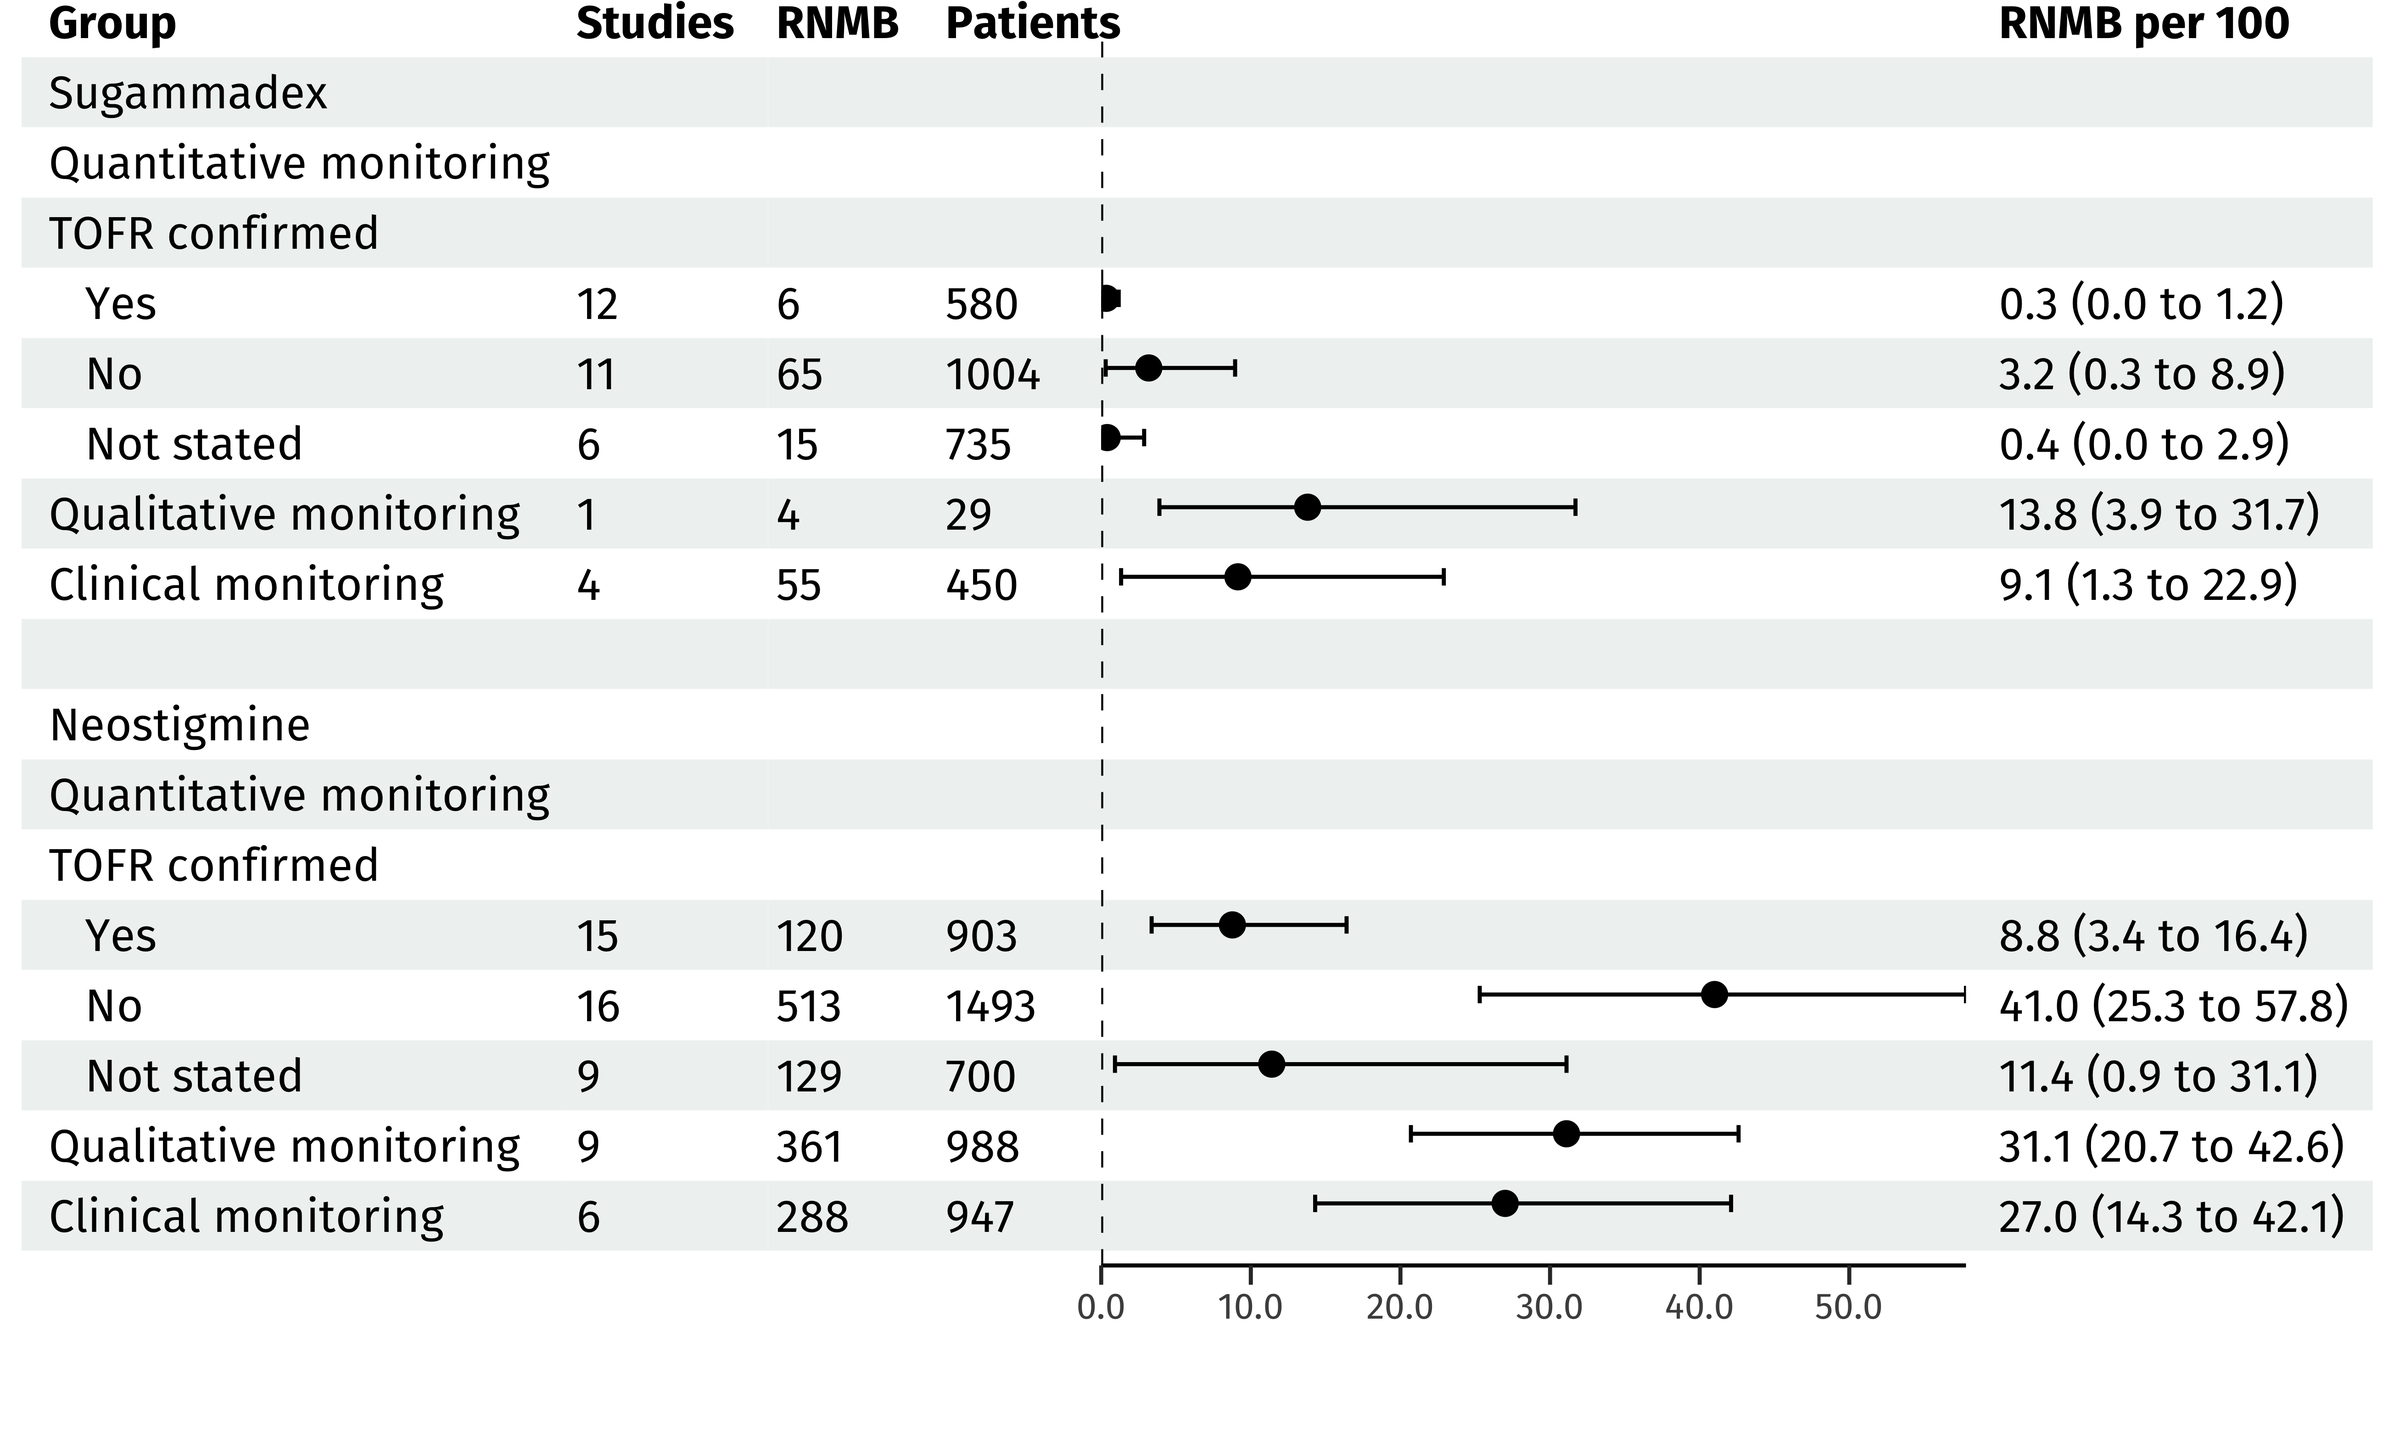
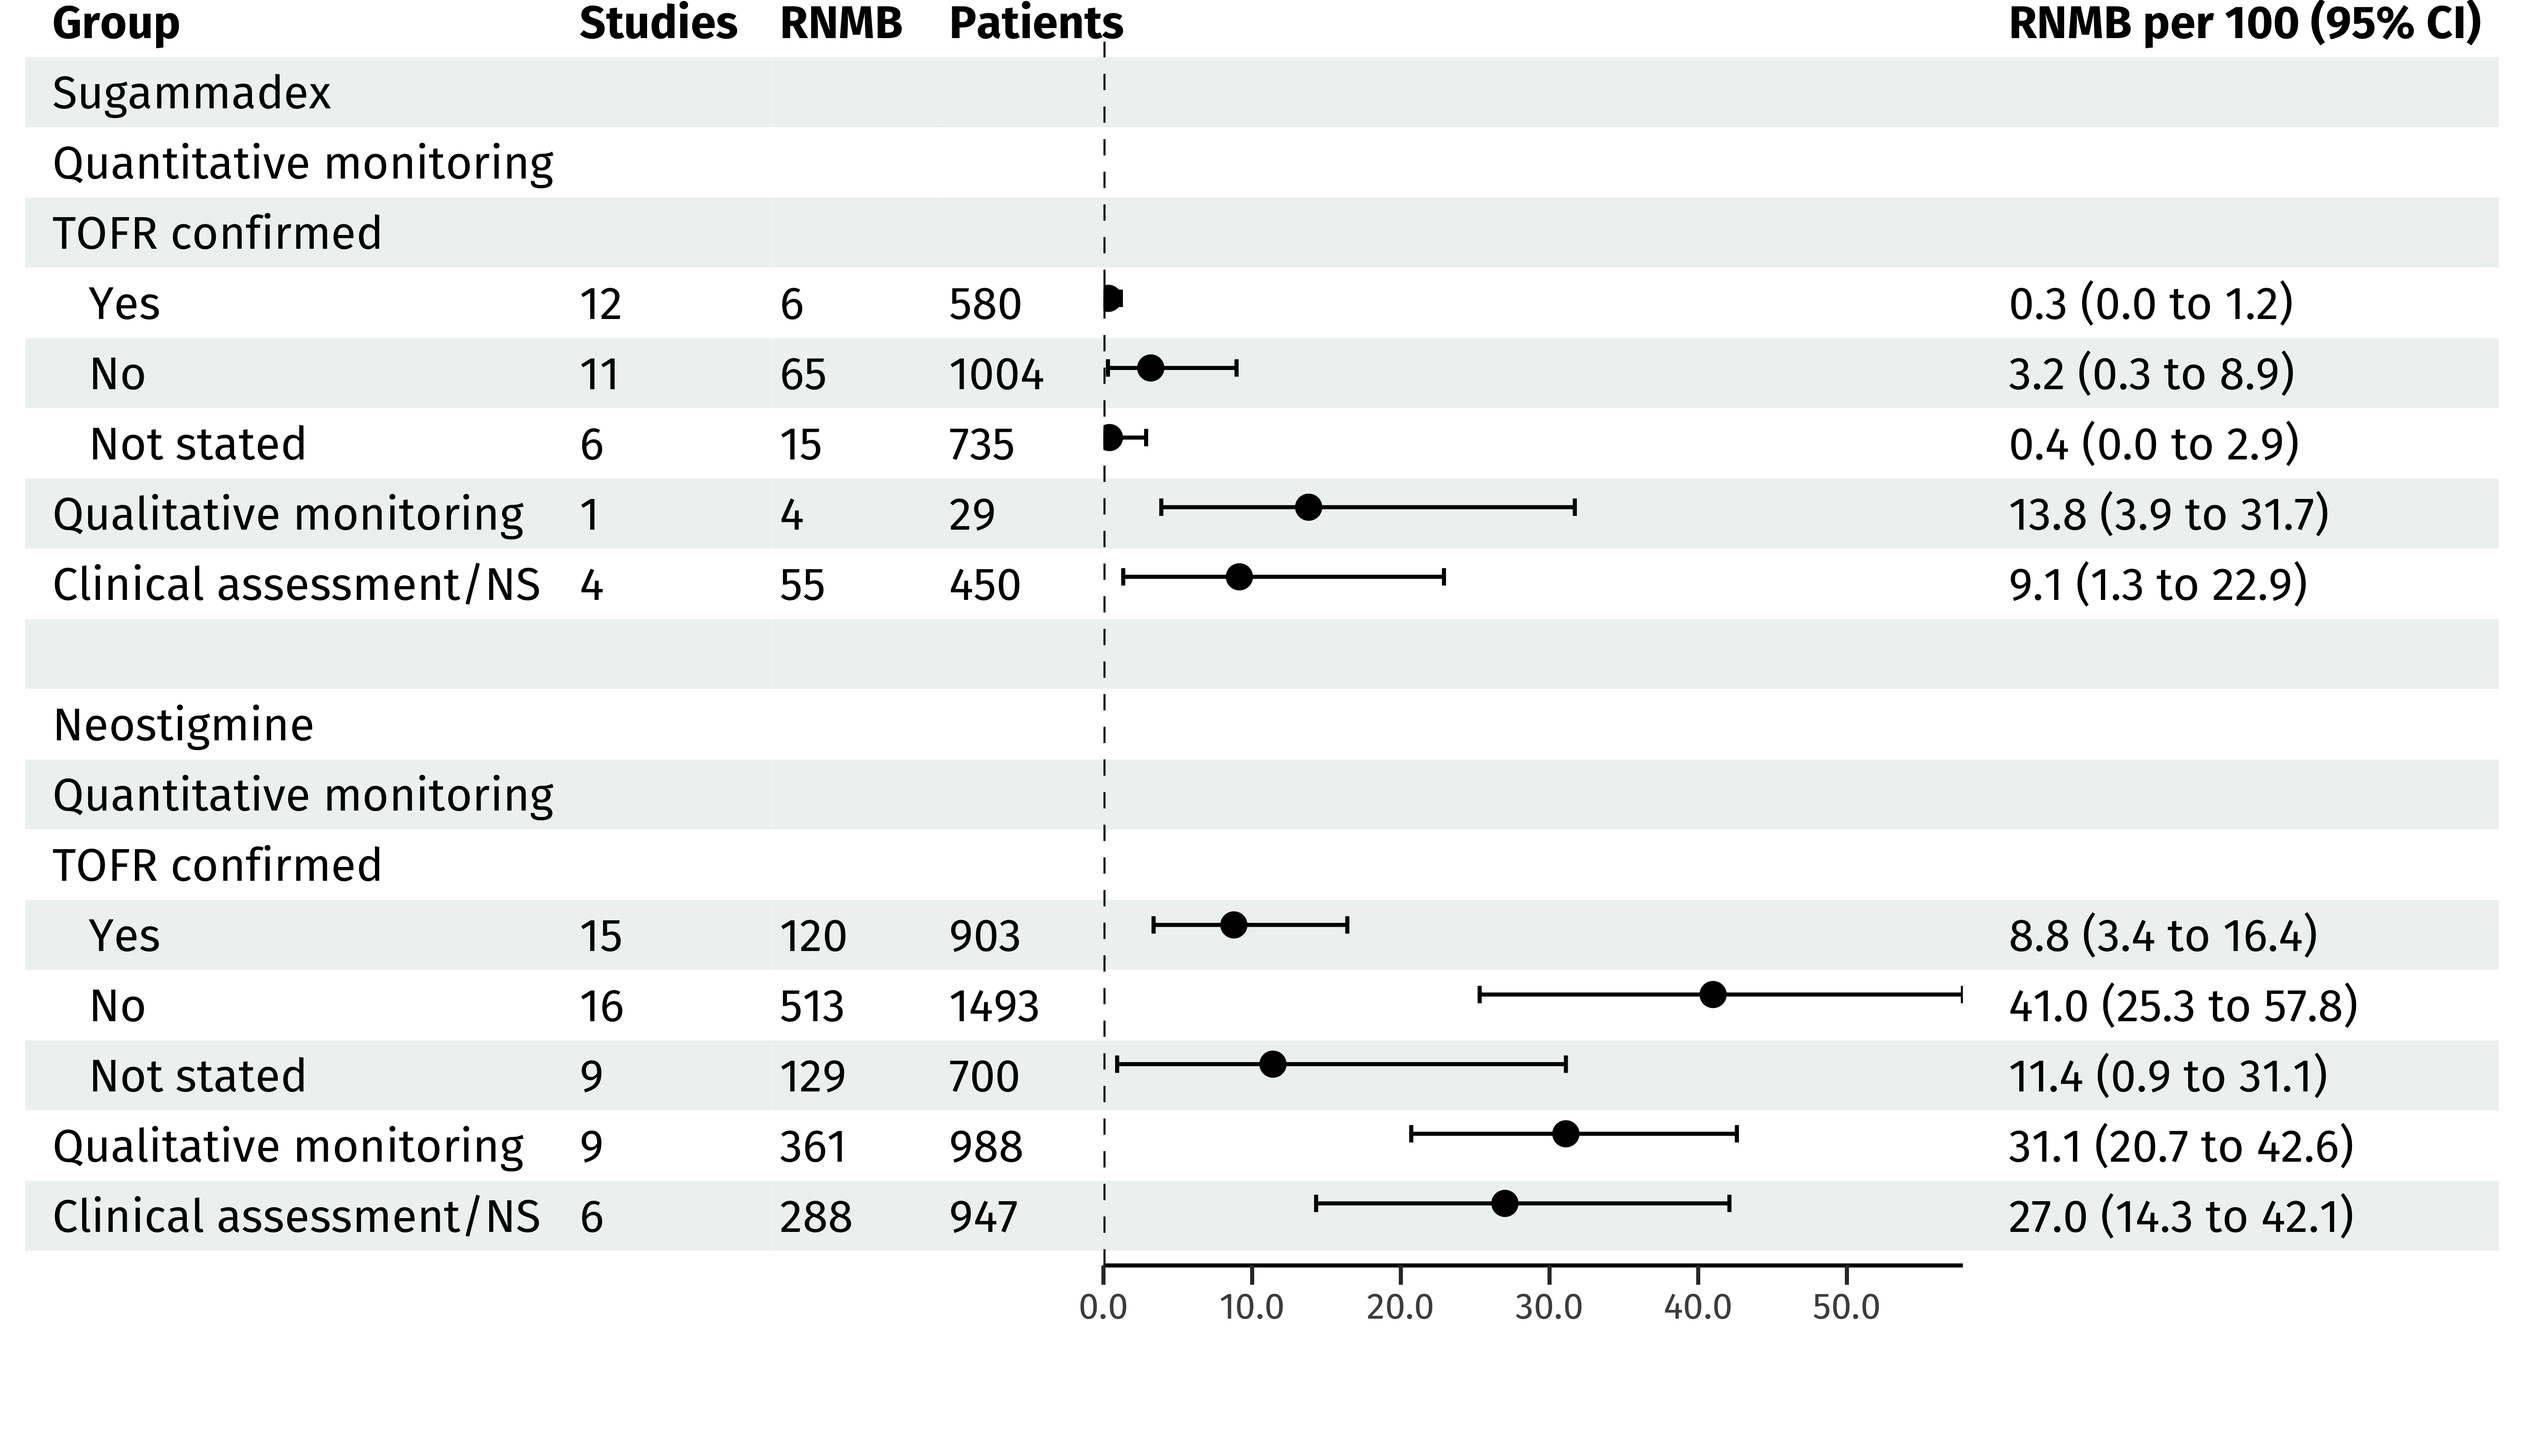
update confirm

diff --git a/docs/tofr_confirm.html b/docs/tofr_confirm.html
@@ -458,7 +458,7 @@ div.tocify {
 
 
 <h1 class="title toc-ignore">TOFR Confirmation Before Extubation</h1>
-<h4 class="date">06 July, 2022 (14:36)</h4>
+<h4 class="date">06 July, 2022 (17:08)</h4>
 
 </div>
 
@@ -621,15 +621,15 @@ project makes it easier to run your code on other machines.</p>
 <div class="panel panel-default">
 <div class="panel-heading">
 <p class="panel-title">
-<a data-toggle="collapse" data-parent="#workflowr-checks" href="#strongRepositoryversionstrongahrefhttpsgithubcommdgrantNMBtreef280de5e1322c443db7bf86bfcd35f98e3fd481etargetblankf280de5a">
+<a data-toggle="collapse" data-parent="#workflowr-checks" href="#strongRepositoryversionstrongahrefhttpsgithubcommdgrantNMBtreedd2a5f68726ecfb61b592556b474a771c363f126targetblankdd2a5f6a">
 <span class="glyphicon glyphicon-ok text-success"
 aria-hidden="true"></span> <strong>Repository version:</strong>
-<a href="https://github.com/mdgrant/NMB/tree/f280de5e1322c443db7bf86bfcd35f98e3fd481e" target="_blank">f280de5</a>
+<a href="https://github.com/mdgrant/NMB/tree/dd2a5f68726ecfb61b592556b474a771c363f126" target="_blank">dd2a5f6</a>
 </a>
 </p>
 </div>
 <div
[2 lines of base64/hex data omitted]
 class="panel-collapse collapse">
 <div class="panel-body">
 <p>
@@ -639,7 +639,7 @@ reproducibility.
 </p>
 <p>
 The results in this page were generated with repository version
-<a href="https://github.com/mdgrant/NMB/tree/f280de5e1322c443db7bf86bfcd35f98e3fd481e" target="_blank">f280de5</a>.
+<a href="https://github.com/mdgrant/NMB/tree/dd2a5f68726ecfb61b592556b474a771c363f126" target="_blank">dd2a5f6</a>.
 See the <em>Past versions</em> tab to see a history of the changes made
 to the R Markdown and HTML files.
 </p>
@@ -744,6 +744,23 @@ Message
 </tr>
 </thead>
 <tbody>
+<tr>
+<td>
+html
+</td>
+<td>
+<a href="https://rawcdn.githack.com/mdgrant/NMB/dd2a5f68726ecfb61b592556b474a771c363f126/docs/tofr_confirm.html" target="_blank">dd2a5f6</a>
+</td>
+<td>
+mdgrant
+</td>
+<td>
+2022-07-06
+</td>
+<td>
+confirm page
+</td>
+</tr>
 <tr>
 <td>
 Rmd
@@ -1863,16 +1880,17 @@ $(document).ready(function(){
     $('[data-toggle="popover"]').popover({html: true, placement: top});
 });
 </script>
-<div id="summary" class="section level2">
-<h2><strong>Summary</strong></h2>
+<div id="summary" class="section level1">
+<h1><strong>Summary</strong></h1>
 <p><font size = 4> Figure 1. Residual neuromuscular blockade (TOFR &lt;
 0.9, pooled incidence proportion) in arms of randomized and
 nonrandomized studies according to type of monitoring and confirmation
 of TOFR prior to extubation.</font></p>
 <p><br/></p>
-<p><img src = "assets/confirm_summary.png" style="width:600px;" align = "left"/></p>
-<p>RNMB: residual neuromuscular blockade (TOFR &lt; 0.9)</p>
+<p><img src = "assets/confirm_summary.png" style="width:800px;" align = "left"/></p>
 <p><br clear="all" /></p>
+<p>RNMB: residual neuromuscular blockade (TOFR &lt; 0.9); NS: not
+stated.</p>
 <p><br/></p>
 </div>
 <div id="sugammadex" class="section level1">
@@ -2843,18 +2861,13 @@ NS
 style="display: inline-block; unicode-bidi: plaintext; background: linear-gradient(270deg, transparent  100.00% , #7fb3d5 100.00% , #7fb3d5 100.00% , transparent 100.00% ); width: 100%"> </span>
 </td>
 </tr>
-<tr grouplength="5">
-<td colspan="9" style="border-top: 1px solid;color: black !important;background-color: #EBEBEB !important;">
-<strong>No quantitative monitoring</strong>
-</td>
-</tr>
 <tr grouplength="1">
-<td colspan="9" style="border-bottom: 0px solid;color: black !important;background-color: white !important;">
+<td colspan="9" style="border-top: 1px solid;color: black !important;background-color: #EBEBEB !important;">
 <strong>Qualitative monitoring</strong>
 </td>
 </tr>
 <tr>
-<td style="text-align:left;width: 12em; padding-left: 4em;" indentlevel="2">
+<td style="text-align:left;width: 12em; ">
 Abola 2020
 </td>
 <td style="text-align:left;width: 10em; ">
@@ -2883,12 +2896,12 @@ style="display: inline-block; unicode-bidi: plaintext; background: linear-gradie
 </td>
 </tr>
 <tr grouplength="4">
-<td colspan="9" style="border-bottom: 0px solid;color: black !important;background-color: white !important;">
+<td colspan="9" style="border-top: 1px solid;color: black !important;background-color: #EBEBEB !important;">
 <strong>Clinical/None/NS</strong>
 </td>
 </tr>
 <tr>
-<td style="text-align:left;width: 12em; padding-left: 4em;" indentlevel="2">
+<td style="text-align:left;width: 12em; ">
 Kotake 2013
 </td>
 <td style="text-align:left;width: 10em; ">
@@ -2918,7 +2931,7 @@ style="display: inline-block; unicode-bidi: plaintext; background: linear-gradie
 </td>
 </tr>
 <tr>
-<td style="text-align:left;width: 12em; padding-left: 4em;" indentlevel="2">
+<td style="text-align:left;width: 12em; ">
 Errando 2016
 </td>
 <td style="text-align:left;width: 10em; ">
@@ -2948,7 +2961,7 @@ style="display: inline-block; unicode-bidi: plaintext; background: linear-gradie
 </td>
 </tr>
 <tr>
-<td style="text-align:left;width: 12em; padding-left: 4em;" indentlevel="2">
+<td style="text-align:left;width: 12em; ">
 Nemes 2017
 </td>
 <td style="text-align:left;width: 10em; ">
@@ -2978,7 +2991,7 @@ style="display: inline-block; unicode-bidi: plaintext; background: linear-gradie
 </td>
 </tr>
 <tr>
-<td style="text-align:left;width: 12em; padding-left: 4em;" indentlevel="2">
+<td style="text-align:left;width: 12em; ">
 Domenech 2019
 </td>
 <td style="text-align:left;width: 10em; ">
@@ -4489,18 +4502,13 @@ NS
 style="display: inline-block; unicode-bidi: plaintext; background: linear-gradient(270deg, transparent  100.00% , #7fb3d5 100.00% , #7fb3d5 100.00% , transparent 100.00% ); width: 100%"> </span>
 </td>
 </tr>
-<tr grouplength="19">
-<td colspan="9" style="border-top: 1px solid;color: black !important;background-color: #EBEBEB !important;">
-<strong>No quantitative monitoring</strong>
-</td>
-</tr>
 <tr grouplength="9">
-<td colspan="9" style="border-bottom: 0px solid;color: black !important;background-color: white !important;">
+<td colspan="9" style="border-top: 1px solid;color: black !important;background-color: #EBEBEB !important;">
 <strong>Qualitative monitoring</strong>
 </td>
 </tr>
 <tr>
-<td style="text-align:left;width: 12em; padding-left: 4em;" indentlevel="2">
+<td style="text-align:left;width: 12em; ">
 Murphy 2005
 </td>
 <td style="text-align:left;width: 10em; ">
@@ -4529,7 +4537,7 @@ style="display: inline-block; unicode-bidi: plaintext; background: linear-gradie
 </td>
 </tr>
 <tr>
-<td style="text-align:left;width: 12em; padding-left: 4em;" indentlevel="2">
+<td style="text-align:left;width: 12em; ">
 Murphy 2008
 </td>
 <td style="text-align:left;width: 10em; ">
@@ -4559,7 +4567,7 @@ style="display: inline-block; unicode-bidi: plaintext; background: linear-gradie
 </td>
 </tr>
 <tr>
-<td style="text-align:left;width: 12em; padding-left: 4em;" indentlevel="2">
+<td style="text-align:left;width: 12em; ">
 Yip 2010
 </td>
 <td style="text-align:left;width: 10em; ">
@@ -4588,7 +4596,7 @@ style="display: inline-block; unicode-bidi: plaintext; background: linear-gradie
 </td>
 </tr>
 <tr>
-<td style="text-align:left;width: 12em; padding-left: 4em;" indentlevel="2">
+<td style="text-align:left;width: 12em; ">
 Murphy 2011
 </td>
 <td style="text-align:left;width: 10em; ">
@@ -4618,7 +4626,7 @@ style="display: inline-block; unicode-bidi: plaintext; background: linear-gradie
 </td>
 </tr>
 <tr>
-<td style="text-align:left;width: 12em; padding-left: 4em;" indentlevel="2">
+<td style="text-align:left;width: 12em; ">
 Thilen 2012
 </td>
 <td style="text-align:left;width: 10em; ">
@@ -4647,7 +4655,7 @@ style="display: inline-block; unicode-bidi: plaintext; background: linear-gradie
 </td>
 </tr>
 <tr>
-<td style="text-align:left;width: 12em; padding-left: 4em;" indentlevel="2">
+<td style="text-align:left;width: 12em; ">
 Todd 2014
 </td>
 <td style="text-align:left;width: 10em; ">
@@ -4676,7 +4684,7 @@ style="display: inline-block; unicode-bidi: plaintext; background: linear-gradie
 </td>
 </tr>
 <tr>
-<td style="text-align:left;width: 12em; padding-left: 4em;" indentlevel="2">
+<td style="text-align:left;width: 12em; ">
 Murphy 2015
 </td>
 <td style="text-align:left;width: 10em; ">
@@ -4706,7 +4714,7 @@ style="display: inline-block; unicode-bidi: plaintext; background: linear-gradie
 </td>
 </tr>
 <tr>
-<td style="text-align:left;width: 12em; padding-left: 4em;" indentlevel="2">
+<td style="text-align:left;width: 12em; ">
 Thilen 2018
 </td>
 <td style="text-align:left;width: 10em; ">
@@ -4735,7 +4743,7 @@ style="display: inline-block; unicode-bidi: plaintext; background: linear-gradie
 </td>
 </tr>
 <tr>
-<td style="text-align:left;width: 12em; padding-left: 4em;" indentlevel="2">
+<td style="text-align:left;width: 12em; ">
 Abola 2020
 </td>
 <td style="text-align:left;width: 10em; ">
@@ -4764,12 +4772,12 @@ style="display: inline-block; unicode-bidi: plaintext; background: linear-gradie
 </td>
 </tr>
 <tr grouplength="10">
-<td colspan="9" style="border-bottom: 0px solid;color: black !important;background-color: white !important;">
+<td colspan="9" style="border-top: 1px solid;color: black !important;background-color: #EBEBEB !important;">
 <strong>Clinical/None/NS</strong>
 </td>
 </tr>
 <tr>
-<td style="text-align:left;width: 12em; padding-left: 4em;" indentlevel="2">
+<td style="text-align:left;width: 12em; ">
 Saager 2019
 </td>
 <td style="text-align:left;width: 10em; ">
@@ -4798,7 +4806,7 @@ style="display: inline-block; unicode-bidi: plaintext; background: linear-gradie
 </td>
 </tr>
 <tr>
-<td style="text-align:left;width: 12em; padding-left: 4em;" indentlevel="2">
+<td style="text-align:left;width: 12em; ">
 Baillard 2005
 </td>
 <td style="text-align:left;width: 10em; ">
@@ -4828,7 +4836,7 @@ style="display: inline-block; unicode-bidi: plaintext; background: linear-gradie
 </td>
 </tr>
 <tr>
-<td style="text-align:left;width: 12em; padding-left: 4em;" indentlevel="2">
+<td style="text-align:left;width: 12em; ">
 Kaan 2012
 </td>
 <td style="text-align:left;width: 10em; ">
@@ -4857,7 +4865,7 @@ style="display: inline-block; unicode-bidi: plaintext; background: linear-gradie
 </td>
 </tr>
 <tr>
-<td style="text-align:left;width: 12em; padding-left: 4em;" indentlevel="2">
+<td style="text-align:left;width: 12em; ">
 Kumar 2012
 </td>
 <td style="text-align:left;width: 10em; ">
@@ -4887,7 +4895,7 @@ style="display: inline-block; unicode-bidi: plaintext; background: linear-gradie
 </td>
 </tr>
 <tr>
-<td style="text-align:left;width: 12em; padding-left: 4em;" indentlevel="2">
+<td style="text-align:left;width: 12em; ">
 Kotake 2013
 </td>
 <td style="text-align:left;width: 10em; ">
@@ -4917,7 +4925,7 @@ style="display: inline-block; unicode-bidi: plaintext; background: linear-gradie
 </td>
 </tr>
 <tr>
-<td style="text-align:left;width: 12em; padding-left: 4em;" indentlevel="2">
+<td style="text-align:left;width: 12em; ">
 Errando 2016
 </td>
 <td style="text-align:left;width: 10em; ">
@@ -4947,7 +4955,7 @@ style="display: inline-block; unicode-bidi: plaintext; background: linear-gradie
 </td>
 </tr>
 <tr>
-<td style="text-align:left;width: 12em; padding-left: 4em;" indentlevel="2">
+<td style="text-align:left;width: 12em; ">
 Nemes 2017
 </td>
 <td style="text-align:left;width: 10em; ">
@@ -4977,7 +4985,7 @@ style="display: inline-block; unicode-bidi: plaintext; background: linear-gradie
 </td>
 </tr>
 <tr>
-<td style="text-align:left;width: 12em; padding-left: 4em;" indentlevel="2">
+<td style="text-align:left;width: 12em; ">
 Domenech 2019
 </td>
 <td style="text-align:left;width: 10em; ">
@@ -5006,7 +5014,7 @@ style="display: inline-block; unicode-bidi: plaintext; background: linear-gradie
 </td>
 </tr>
 <tr>
-<td style="text-align:left;width: 12em; padding-left: 4em;" indentlevel="2">
+<td style="text-align:left;width: 12em; ">
 Alenezi 2021
 </td>
 <td style="text-align:left;width: 10em; ">
@@ -5035,7 +5043,7 @@ style="display: inline-block; unicode-bidi: plaintext; background: linear-gradie
 </td>
 </tr>
 <tr>
-<td style="text-align:left;width: 12em; padding-left: 4em;" indentlevel="2">
+<td style="text-align:left;width: 12em; ">
 Wardhana 2019
 </td>
 <td style="text-align:left;width: 10em; ">
